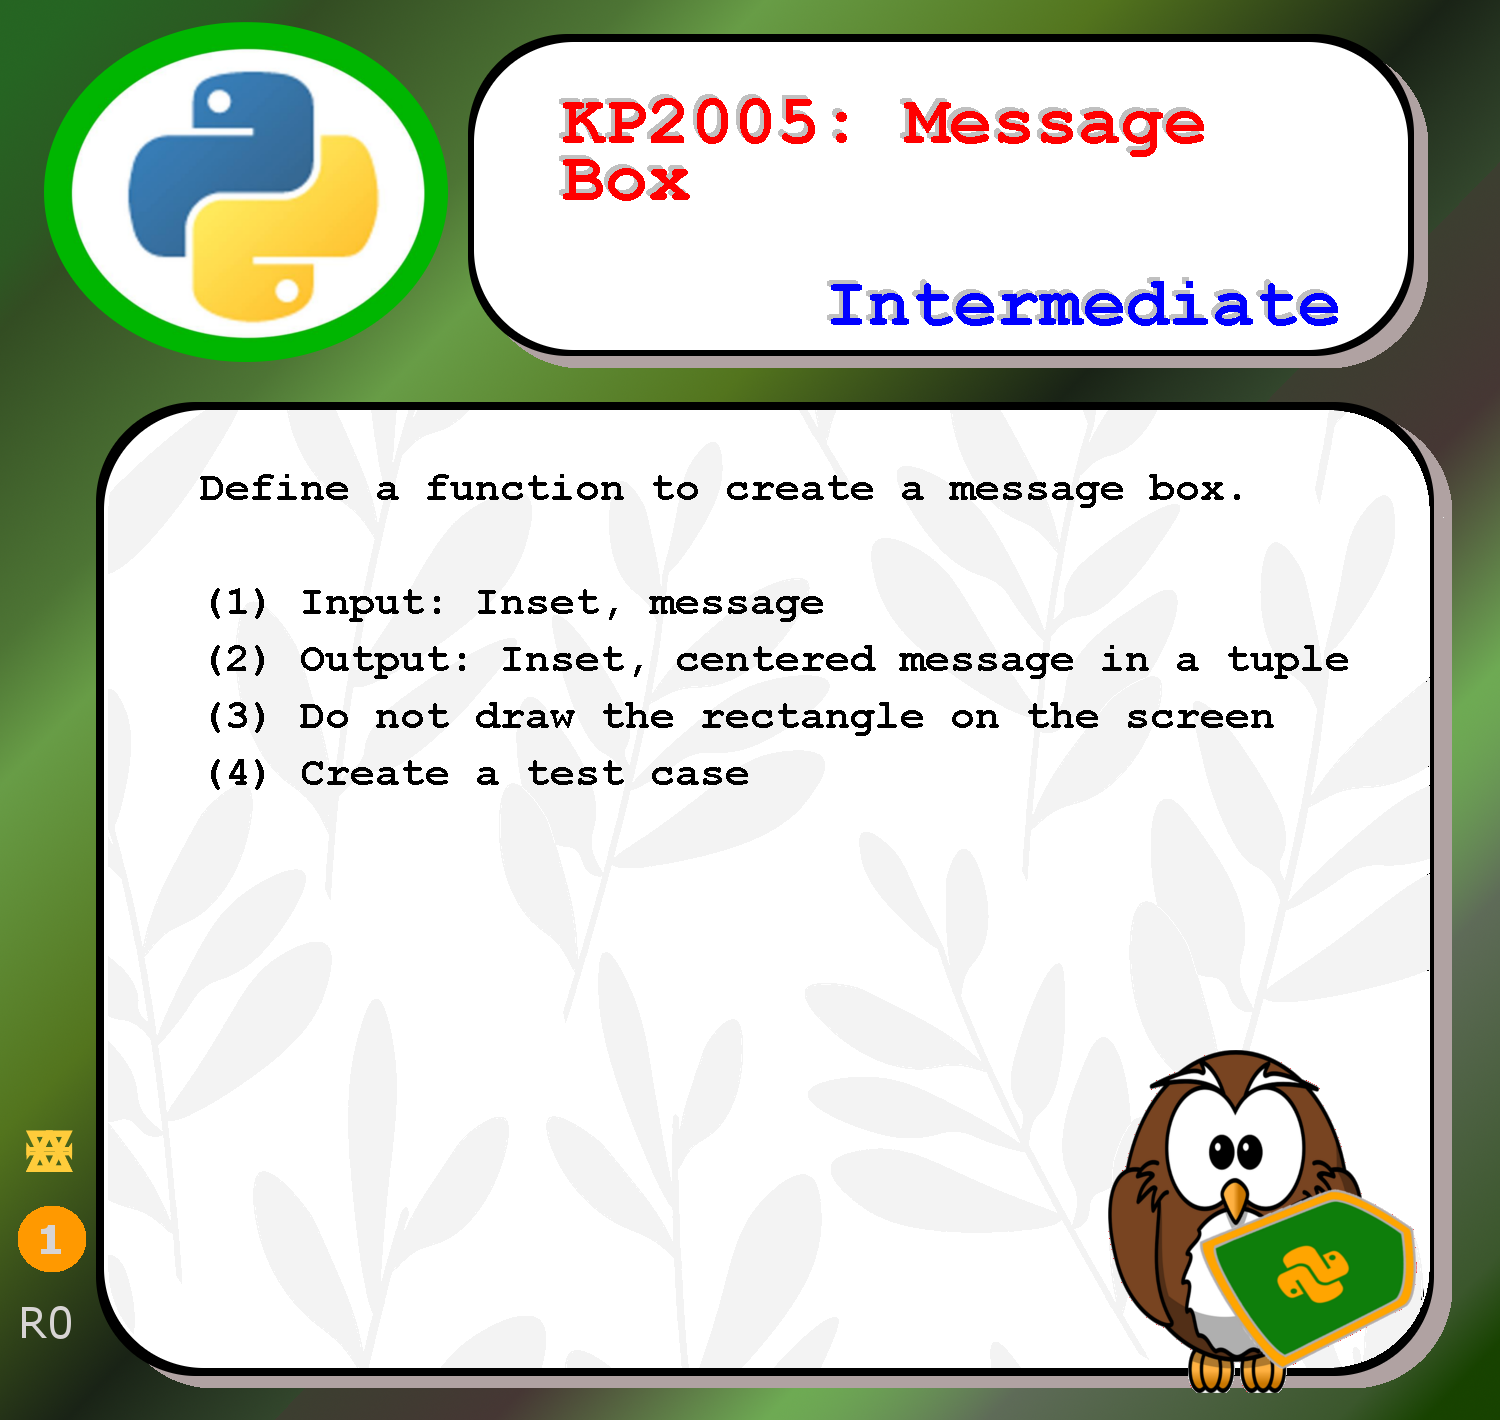
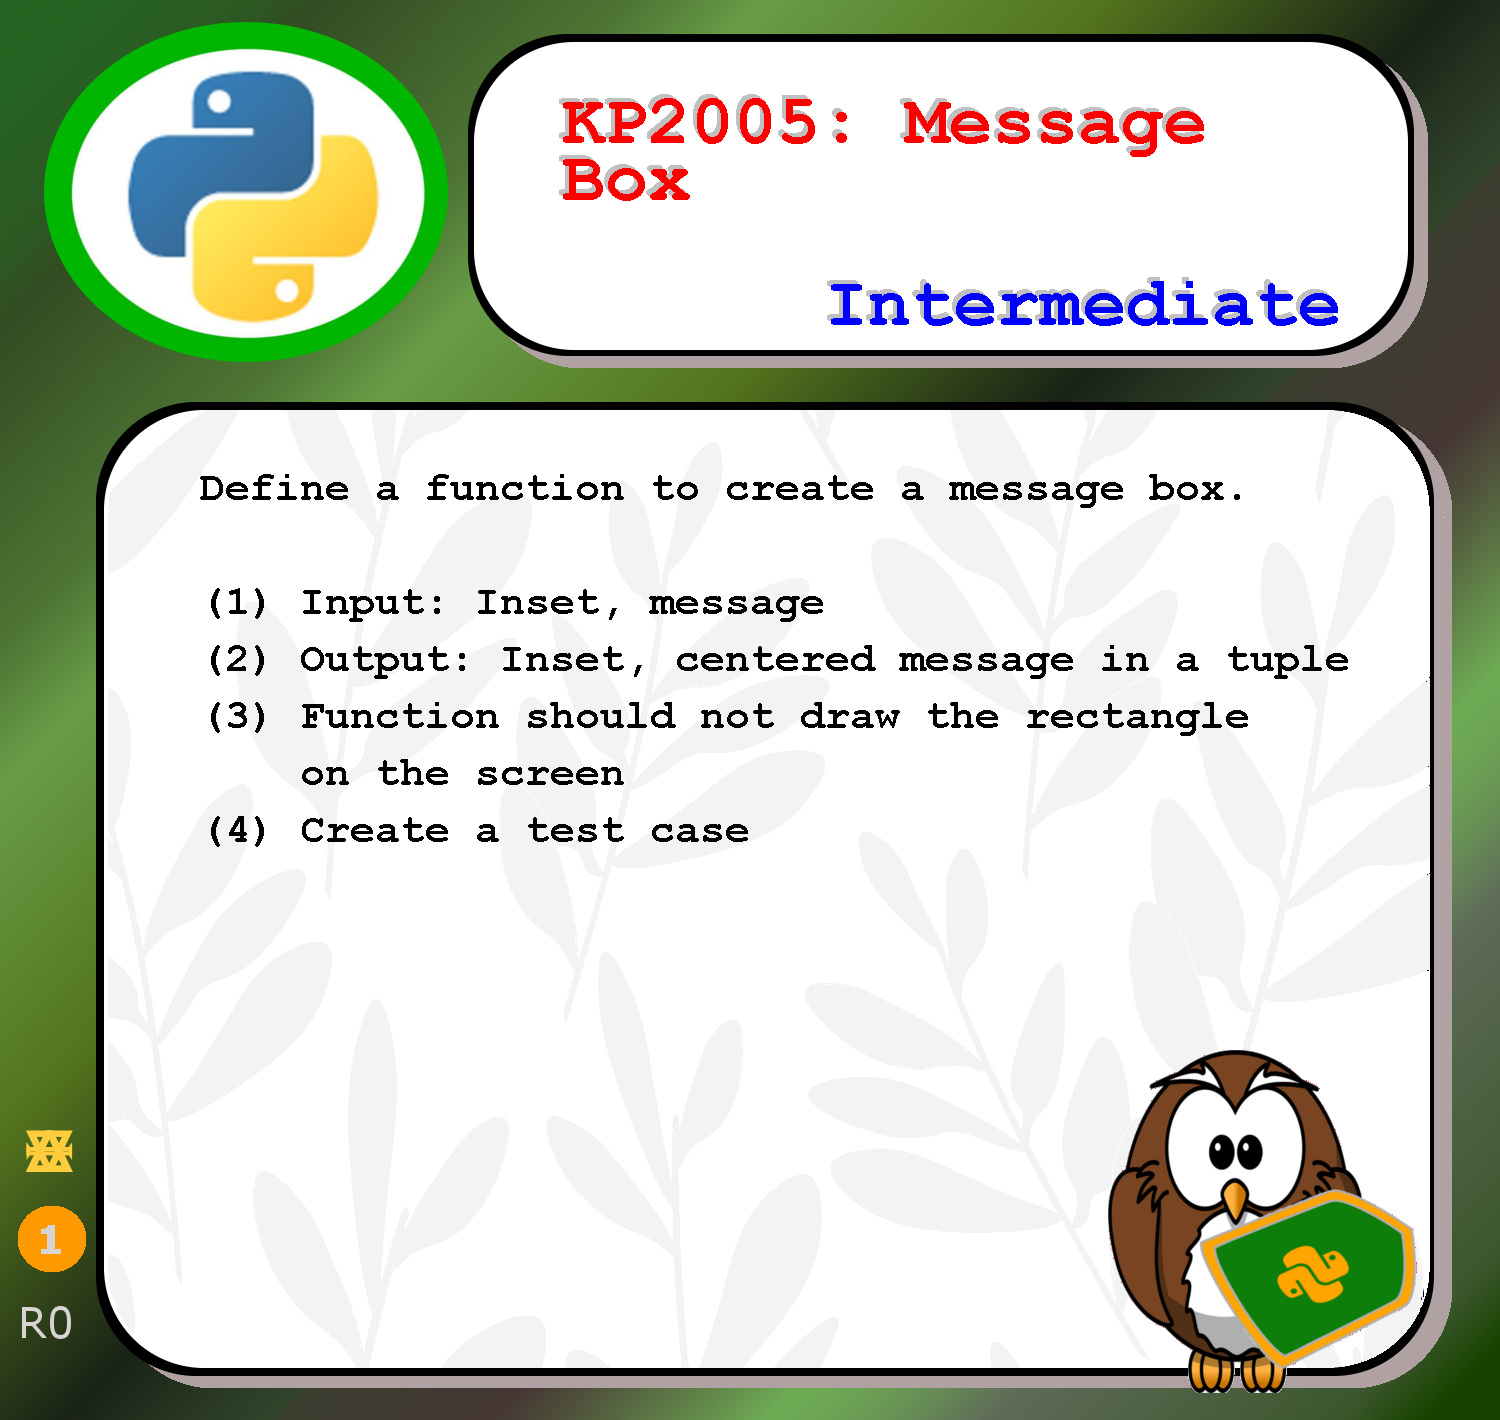
KP2005: Updated + Test Case
:-)

Changed region(s): [[0.1533, 0.4958, 0.644, 0.5887], [0.736, 0.4958, 0.8587, 0.5268], [0.368, 0.5577, 0.3987, 0.5887]]

diff --git a/CardGame/QuestProjects/KP2005_tc.py b/CardGame/QuestProjects/KP2005_tc.py
@@ -1,0 +1,35 @@
+#!/usr/bin/env python3
+'''
+KP2005: Message Box
+Define a function to create a message box.
+
+(1) Input: Inset, message
+(2) Output: Inset, centered message in a tuple
+(3) Function should not draw the rectangle 
+    on the screen
+(4) Create a test case
+'''
+
+def mk_rect(inset:int, message:str)->str:
+    return ''
+
+
+errors = False
+a_rect = mk_rect(1, '2')
+print(a_rect)
+
+if a_rect != ' *****\n * 2 *\n *****\n':
+    errors = True
+a_rect = mk_rect('1', 2)
+if a_rect:
+    errors = True
+
+
+# Report
+if not errors:
+    print("Testing Success")
+else:
+    print("Error(s) detected")
+
+
+
